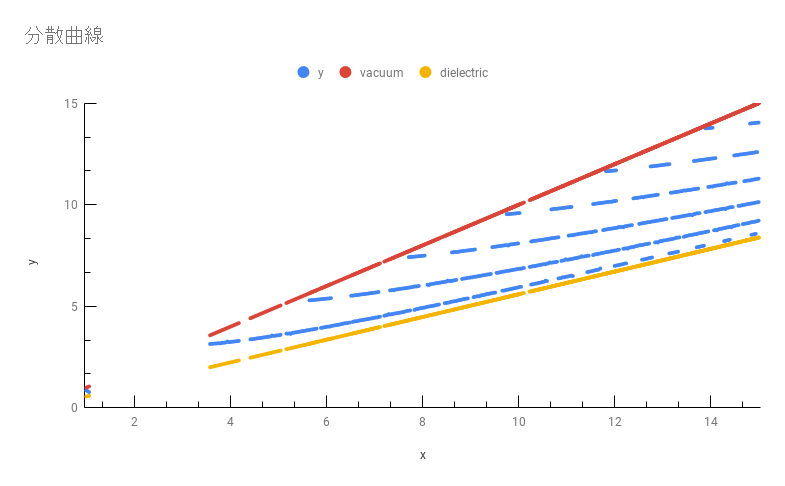
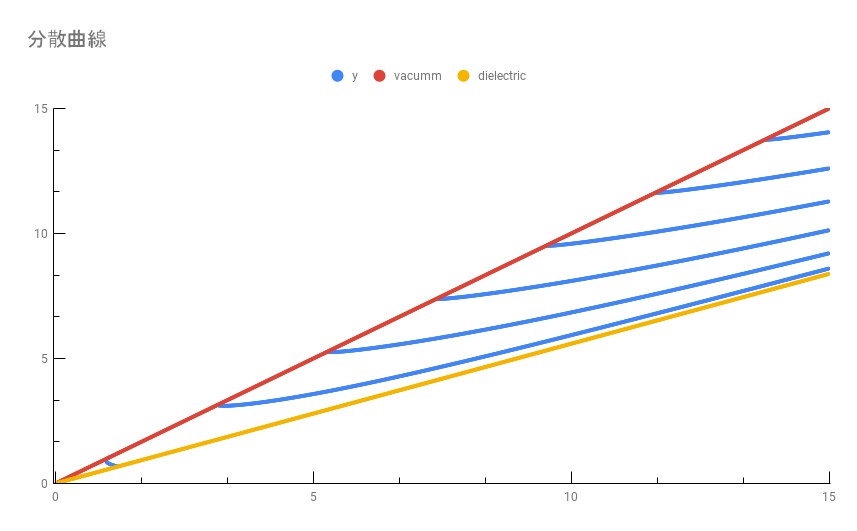
:+1: Update : 分散曲線が途切れるのを修正

diff --git a/ex3/src/main.cpp b/ex3/src/main.cpp
@@ -1,16 +1,26 @@
+#include <cmath>
+#include <ios>
 #include <iostream>
+#include <iomanip>
 #include "dichotomy.h"
 
 int main(){
-    double dx = 15.0 / 500.0;
-    double dy = 15.0 / 50.0;
+    double dy_num = 1000.0;
 
-    double error = 1.0e-2;
+    double dx = 15.0 / 1000.0;
+    double dy = 15.0 / dy_num;
 
-    std::cout << "x , y" << std::endl;
+    double error = 1.0e-4;
+
+    std::cout << "x, y, vacumm, dielectric" << std::endl;
 
     for (double x = 0.0; x < 15; x += dx) {
-        for (double y = 0.0; y < 15; y += dy) {
+        std::cout << std::fixed << std::setprecision(15) << x << ",,";
+        std::cout << std::fixed << std::setprecision(15) << x << ",";
+        std::cout << std::fixed << std::setprecision(15) << x / std::sqrt(eps_r) << std::endl;
+
+        double dy = x / dy_num;
+        for (double y = 0.0; y < x; y += dy) {
             double e0, e1;
             if( (!f(x, y, &e0)) || (!f(x, y+dy, &e1)) ){
                 continue;
@@ -19,7 +29,9 @@ int main(){
             if( e0 * e1 < 0 ){
                 double ans;
                 if( dichotomy(x, y, y+dy, error, &ans) ){
-                    std::cout << x << " , " << ans << std::endl;
+                    // std::cout << x << " , " << ans << std::endl;
+                    std::cout << std::fixed << std::setprecision(15) << x << ",";
+                    std::cout << std::fixed << std::setprecision(15) << ans << std::endl;
                 }
             }
         }    

diff --git a/ex3/README.md b/ex3/README.md
@@ -4,6 +4,6 @@
 
 # (2) 分散関係式を数値計算により解き、分散曲線をグラフに描く
 
-![](x0-15y0-15e-2.png)
+![](src/分散曲線.png)
 
 # (3) (2)よりある動作周波数における電磁界分布の例を図示する
